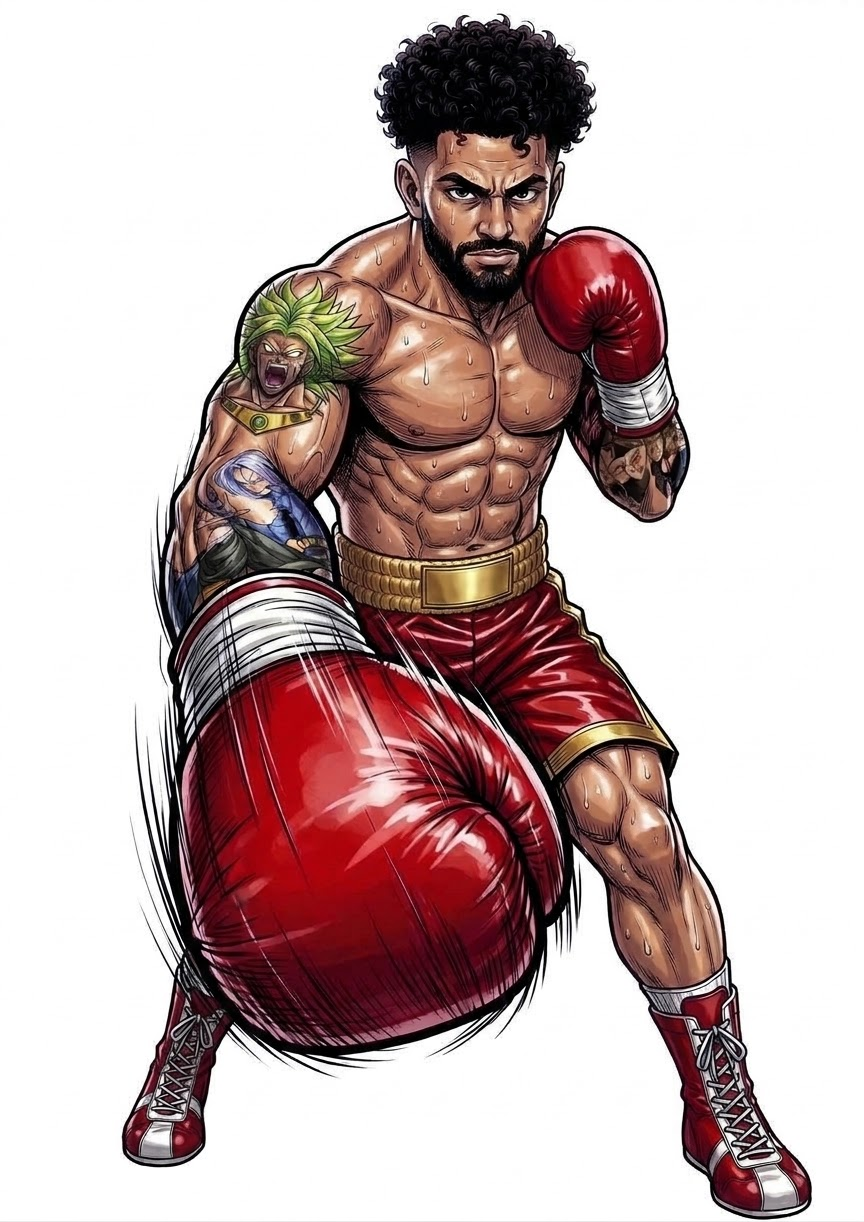
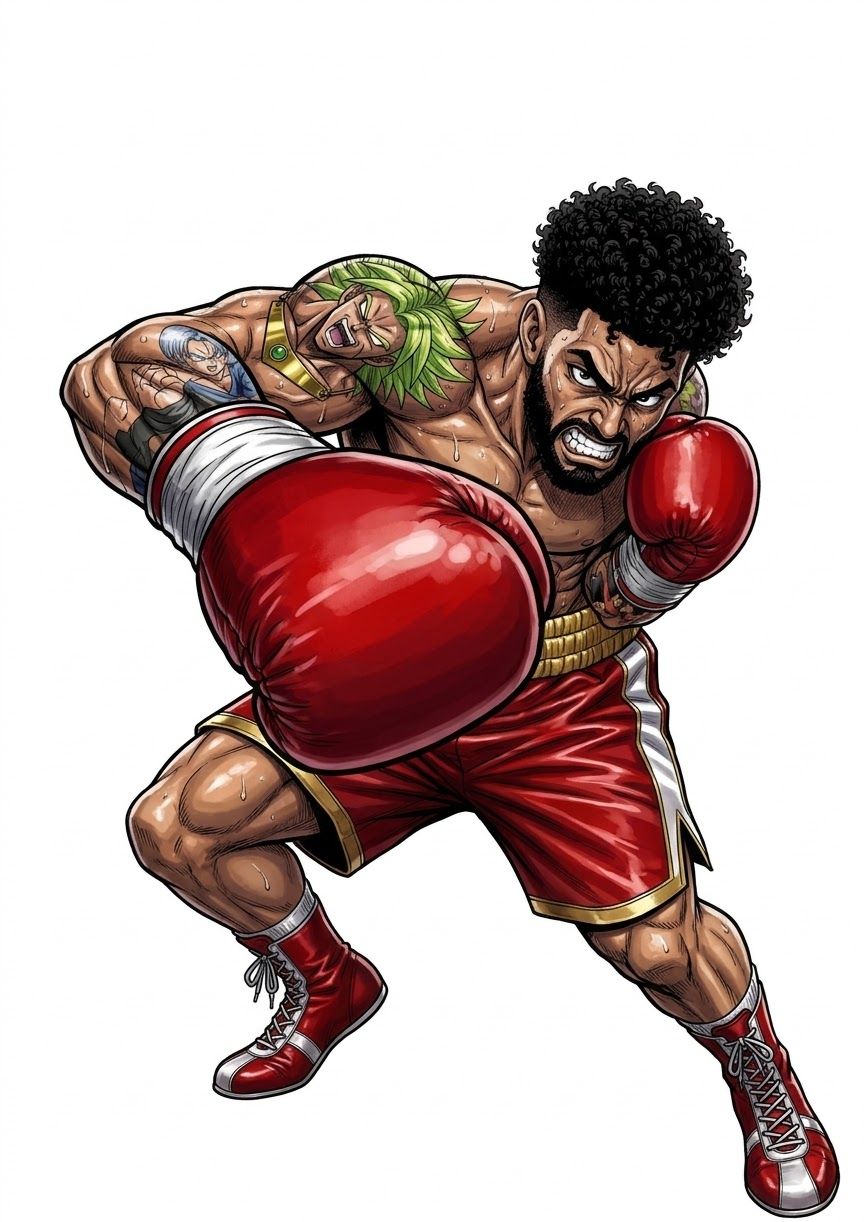
Greg : jab et coup au corps DE FACE (le gant part vers le joueur, plus sur le côté)
Claude-Session: https://claude.ai/code/session_01Nh56uCfCYFQpr6HwXFtrQ7

diff --git a/src/bosses/greg/reglages.js b/src/bosses/greg/reglages.js
@@ -51,9 +51,9 @@ export const REGLAGES = {
       gardeBasse: { cle: 'greg2_garde_basse', origine: [0.483, 1], taille: 0.78, pied: true },
       nargue:     { cle: 'greg2_nargue',      origine: [0.418, 1], taille: 0.78, pied: true },   // langue tirée, bras ballants
       tapeGants:  { cle: 'greg2_tape_gants',  origine: [0.496, 1], taille: 0.78, pied: true },   // avant le SMASH
-      jab:        { cle: 'greg2_jab',         origine: [0.427, 1], taille: 0.78, pied: true, cote: 'd' },
+      jab:        { cle: 'greg2_jab',         origine: [0.625, 1], taille: 0.78, pied: true, cote: 'g' },   // DE FACE : gant vers toi
       crochet:    { cle: 'greg2_crochet',     origine: [0.582, 1], taille: 0.78, pied: true, cote: 'g' },
-      corpsPied:  { cle: 'greg2_corps',       origine: [0.526, 1], taille: 0.78, pied: true, cote: 'g' },
+      corpsPied:  { cle: 'greg2_corps',       origine: [0.732, 1], taille: 0.78, pied: true, cote: 'g' },   // DE FACE : accroupi, gant au ventre
       smash:      { cle: 'greg2_smash',       origine: [0.636, 1], taille: 0.78, pied: true },
       touche:     { cle: 'greg2_touche',      origine: [0.616, 1], taille: 0.78, pied: true },
       etourdi:    { cle: 'greg2_etourdi',     origine: [0.492, 1], taille: 0.78, pied: true },

diff --git a/src/bosses/greg/manifeste.js b/src/bosses/greg/manifeste.js
@@ -30,8 +30,8 @@ export const MANIFESTE = {
     greg2_garde_haute: { fichier: 'sprites/greg/greg2_garde_haute.png', largeur: 402, hauteur: 560, images: 1, vitesse: 1 },
     greg2_nargue: { fichier: 'sprites/greg/greg2_nargue.png', largeur: 237, hauteur: 560, images: 1, vitesse: 1 },
     greg2_entier: { fichier: 'sprites/greg/greg2_entier.png', largeur: 398, hauteur: 560, images: 1, vitesse: 1 },
-    greg2_jab: { fichier: 'sprites/greg/greg2_jab.png', largeur: 321, hauteur: 560, images: 1, vitesse: 1 },
-    greg2_corps: { fichier: 'sprites/greg/greg2_corps.png', largeur: 321, hauteur: 562, images: 1, vitesse: 1 },
+    greg2_jab: { fichier: 'sprites/greg/greg2_jab.png', largeur: 399, hauteur: 545, images: 1, vitesse: 1 },
+    greg2_corps: { fichier: 'sprites/greg/greg2_corps.png', largeur: 354, hauteur: 472, images: 1, vitesse: 1 },
     greg2_smash: { fichier: 'sprites/greg/greg2_smash.png', largeur: 331, hauteur: 561, images: 1, vitesse: 1 },
     greg2_touche: { fichier: 'sprites/greg/greg2_touche.png', largeur: 360, hauteur: 545, images: 1, vitesse: 1 },
     greg2_etourdi: { fichier: 'sprites/greg/greg2_etourdi.png', largeur: 237, hauteur: 560, images: 1, vitesse: 1 },

diff --git a/outils/greg/preparer_v2.py b/outils/greg/preparer_v2.py
@@ -40,11 +40,25 @@ def effacer_texte_ceinture(img):
     return Image.fromarray(a, 'RGBA')
 
 images = {p: detourer(Image.open(f'{SRC}/greg_{p}.jpg')) for p in POSES}
+
+# Poses dessinées à une autre échelle (autre format d'image) : on les met à la taille de la TÊTE de "entier"
+# (largeur des cheveux noirs en haut du personnage).
+A_LA_TETE = ['corps']   # nov. 2026 : coup au corps DE FACE (accroupi : on se cale sur la tête)
+A_LA_HAUTEUR = {'jab': 545}   # jab DE FACE (debout, tête dessinée plus grosse : on se cale sur la hauteur)
+def largeur_tete(im):
+    a = np.asarray(im.crop(im.getbbox()))
+    al = a[:, :, 3] > 128; noir = (a[:, :, :3].max(axis=2) < 70) & al
+    ys = np.where(al.any(axis=1))[0]
+    bande = noir[ys[0]:ys[0] + int((ys[-1] - ys[0]) * 0.06)]
+    xs = np.where(bande.any(axis=0))[0]
+    return xs.max() - xs.min()
 bb = images['entier'].getbbox()
 f = HAUTEUR_ENTIER / (bb[3] - bb[1])
 for p, im in images.items():
     im = im.crop(im.getbbox())
-    im = im.resize((round(im.width * f), round(im.height * f)), Image.LANCZOS)
+    fp = f * largeur_tete(images['entier']) / largeur_tete(images[p]) if p in A_LA_TETE else f
+    if p in A_LA_HAUTEUR: fp = A_LA_HAUTEUR[p] / im.height
+    im = im.resize((round(im.width * fp), round(im.height * fp)), Image.LANCZOS)
     if p == 'tape_gants': im = effacer_texte_ceinture(im)
     im.save(f'{DST}/greg2_{p}.png', optimize=True)
     a = np.asarray(im)[:, :, 3] > 128

diff --git a/propositions/greg_prompts_images.md b/propositions/greg_prompts_images.md
@@ -364,6 +364,6 @@ FRAMING: the whole character inside the image, never cropped (hair, both gloves,
 white margin on all four sides. Plain pure white background, no text, no motion lines crossing the body.
 POSE: <ligne POSE>
 ```
-- **greg_jab.jpg** : `copy the pose of the 2nd figure of the second image: straight punch thrown at the viewer with the glove on the LEFT side of the picture, huge glove in the foreground hiding part of his shoulder, other glove guarding the chin, legs apart.`
+- **greg_jab.jpg** (REÇU et branché) : `copy the pose of the 2nd figure of the second image: straight punch thrown at the viewer with the glove on the LEFT side of the picture, huge glove in the foreground hiding part of his shoulder, other glove guarding the chin, legs apart.`
 - **greg_crochet.jpg** : `copy the pose of the 3rd figure of the second image: powerful punch thrown at the viewer with the glove on the RIGHT side of the picture, torso turned, big glove in the foreground at face height, other glove guarding the chin, knees bent.`
-- **greg_corps.jpg** : `copy the pose of the 4th figure of the second image: crouched low, driving an uppercut at the viewer's stomach, glove big in the foreground at belly height, other glove guarding the chin, angry face.`
+- **greg_corps.jpg** (REÇU et branché) : `copy the pose of the 4th figure of the second image: crouched low, driving an uppercut at the viewer's stomach, glove big in the foreground at belly height, other glove guarding the chin, angry face.`

diff --git a/NOTES.md b/NOTES.md
@@ -58,6 +58,9 @@
 - Images reçues et branchées : `greg2_garde_basse`, `greg2_nargue` (nouvelle, langue tirée), `greg2_crochet` (refait),
   `greg2_ko_debout` (chute), `greg2_victoire` (`greg_arme` retirée : bras tendu de côté, on croyait qu'il tapait à côté ; nouveau prompt). Anciennes versions gardées
   dans `assets_inbox/greg_v2/` (`_ancien`, `_rate`). Outil : `python3 outils/greg/preparer_v2.py`.
+- Coups DE FACE (gant vers le joueur) : `greg2_jab` et `greg2_corps` remplacés (anciens « de côté » gardés en
+  `assets_inbox/greg_v2/*_cote.jpg`) ; `preparer_v2.py` les met à l'échelle (jab : hauteur 545 ; corps : taille de la tête).
+  Le crochet reste l'image « de côté » (prompt « COUPS DE FACE » pour le refaire).
 - `greg2_releve` branché : pose prise 1,1 s quand Greg se relève (il monte du tapis).
 - RESTE : poses du héros, portrait / visage / case K.O. / trophée / arbitre
   (prompts dans `propositions/greg_prompts_images.md`).
